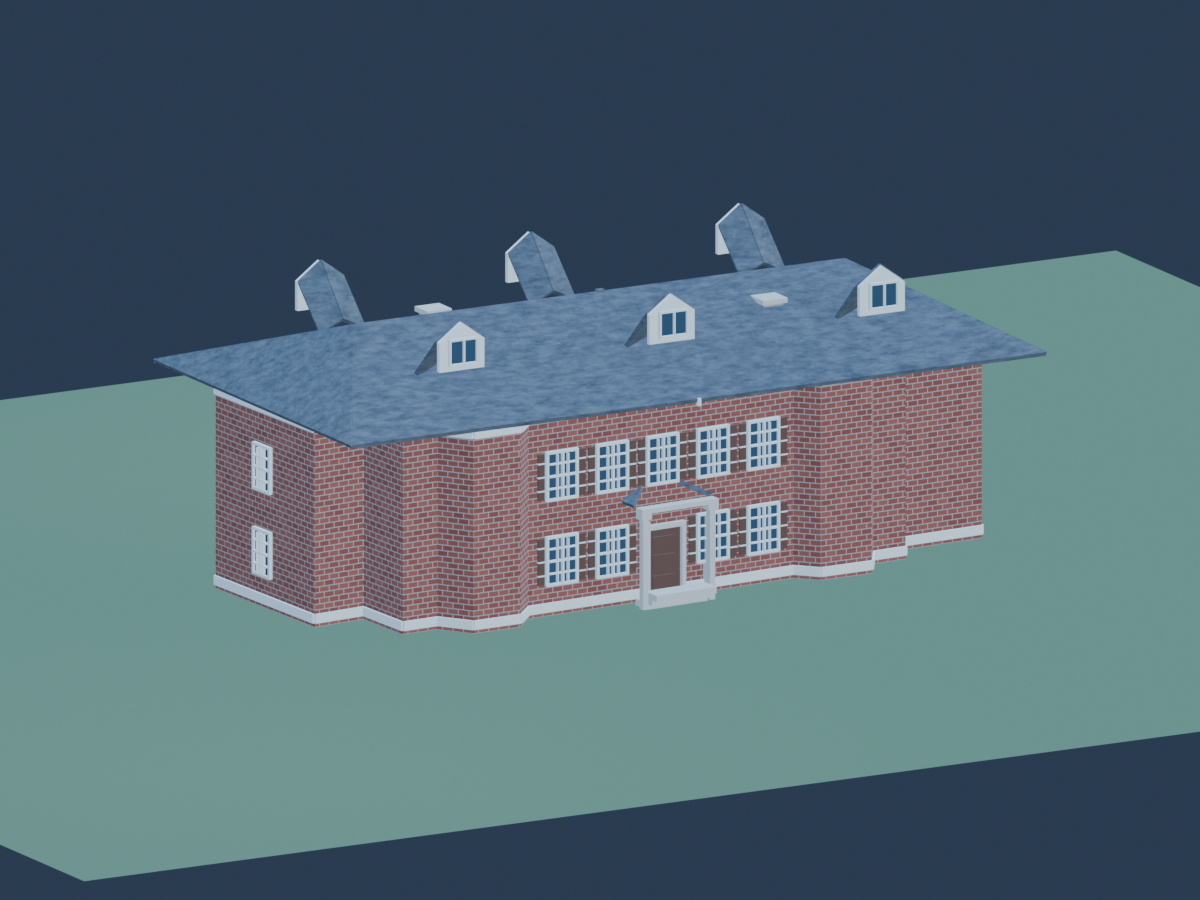
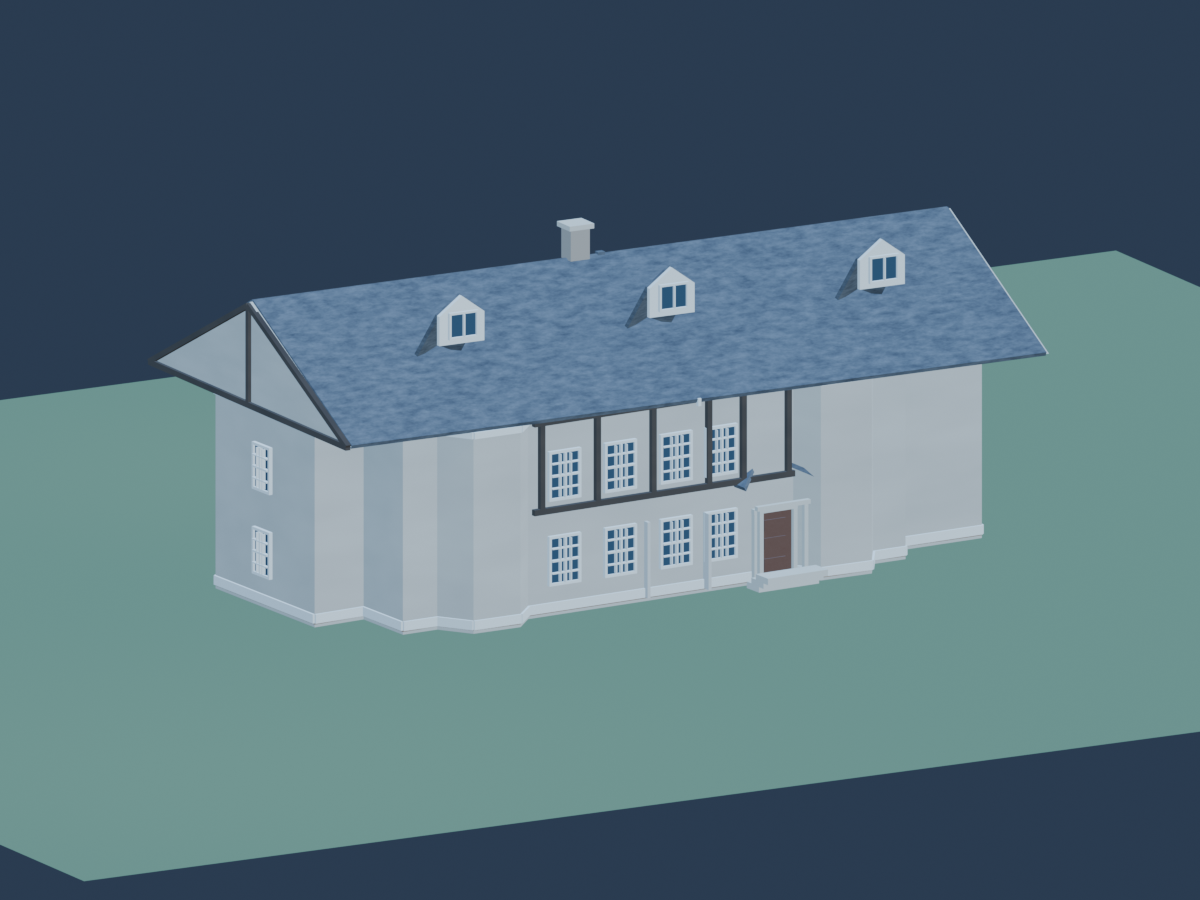
Refine and grade Kappa Delta Rho

Changed region(s): [[0.1233, 0.2178, 0.8633, 0.7156]]

diff --git a/audit/kappa_delta_rho/build_detail.py b/audit/kappa_delta_rho/build_detail.py
@@ -60,8 +60,8 @@ wood_noise=tnt.nodes.new('ShaderNodeTexNoise'); wood_noise.inputs['Scale'].defau
 wood_ramp=tnt.nodes.new('ShaderNodeValToRGB'); wood_ramp.color_ramp.elements[0].color=(0.018,0.014,0.012,1); wood_ramp.color_ramp.elements[1].color=(0.075,0.052,0.035,1)
 tnt.links.new(wood_noise.outputs['Fac'],wood_ramp.inputs['Fac']); tnt.links.new(wood_ramp.outputs['Color'],tbs.inputs['Base Color'])
 light_wall,lbs,lnt=mat_principled('KDR_Light_Wall_Infill_Photo37_Estimate',(0.56,0.49,0.37),0.88)
-wall_noise=lnt.nodes.new('ShaderNodeTexNoise'); wall_noise.inputs['Scale'].default_value=23; wall_noise.inputs['Detail'].default_value=2
-wall_ramp=lnt.nodes.new('ShaderNodeValToRGB'); wall_ramp.color_ramp.elements[0].color=(0.34,0.30,0.24,1); wall_ramp.color_ramp.elements[1].color=(0.73,0.67,0.55,1)
+wall_noise=lnt.nodes.new('ShaderNodeTexNoise'); wall_noise.inputs['Scale'].default_value=5; wall_noise.inputs['Detail'].default_value=2
+wall_ramp=lnt.nodes.new('ShaderNodeValToRGB'); wall_ramp.color_ramp.elements[0].color=(0.49,0.44,0.36,1); wall_ramp.color_ramp.elements[1].color=(0.63,0.57,0.46,1)
 lnt.links.new(wall_noise.outputs['Fac'],wall_ramp.inputs['Fac']); lnt.links.new(wall_ramp.outputs['Color'],lbs.inputs['Base Color'])
 
 slate,bs2,nt2=mat_principled('KDR_Blue_Charcoal_Slate_Roof_Estimate',(0.075,0.09,0.105),0.78)
@@ -96,7 +96,7 @@ for i in range(n): faces.append((i,(i+1)%n,n+(i+1)%n,n+i))
 faces.append(tuple(reversed(range(n))))
 faces.append(tuple(range(n,2*n)))
 newmesh=bpy.data.meshes.new('House_1089876362_GIS_footprint_shell')
-newmesh.from_pydata(verts,[],faces); newmesh.materials.clear(); newmesh.materials.append(brick); newmesh.materials.append(limestone)
+newmesh.from_pydata(verts,[],faces); newmesh.materials.clear(); newmesh.materials.append(light_wall); newmesh.materials.append(limestone)
 newmesh.update()
 for i,p in enumerate(newmesh.polygons):
     p.material_index=1 if i==len(faces)-1 else 0
@@ -221,7 +221,7 @@ front=max((e for e in edges if e[5][0]<-0.55),key=lambda e:e[3])
 front_len=front[3]; front_center=front[6]; front_t=front[4]; front_n=front[5]
 door_y=front_center[1]
 # Photo 37 shows the main entry near the right end of the broad visible elevation.
-door_frac=0.84
+door_frac=0.92
 door_center=(front_center[0]+front_t[0]*(door_frac-0.5)*front_len,front_center[1]+front_t[1]*(door_frac-0.5)*front_len)
 # Restrained window bays, with no shutters on the Photo 37-facing elevation.
 front_window_fracs=(0.13,0.34,0.55,0.72)
@@ -237,15 +237,10 @@ for z in (3.95,7.23):
     a=(timber_y[0]+front_t[0]*(-front_len/2+0.10),timber_y[1]+front_t[1]*(-front_len/2+0.10),z)
     b=(timber_y[0]+front_t[0]*(front_len/2-0.10),timber_y[1]+front_t[1]*(front_len/2-0.10),z)
     timberB.beam(a,b,0.22,0.20,front_n)
-for frac in (0.04,0.27,0.50,0.73,0.96):
+for frac in (0.04,0.25,0.46,0.67,0.80,0.97):
     px=front_center[0]+front_t[0]*(frac-0.5)*front_len+front_n[0]*0.20
     py=front_center[1]+front_t[1]*(frac-0.5)*front_len+front_n[1]*0.20
     timberB.beam((px,py,3.95),(px,py,7.23),0.20,0.20,front_n)
-# Short diagonal braces reinforce the Period Revival timber pattern between bays.
-for frac in (0.04,0.27,0.73,0.96):
-    p0=(front_center[0]+front_t[0]*(frac-0.5)*front_len+front_n[0]*0.20,front_center[1]+front_t[1]*(frac-0.5)*front_len+front_n[1]*0.20,4.02)
-    p1=(p0[0]+front_t[0]*1.10,p0[1]+front_t[1]*1.10,4.90)
-    timberB.beam(p0,p1,0.13,0.20,front_n)
 # Dark timber triangle on the visible north gable, a clear Photo 37 feature.
 gable_n=(0.0,1.0)
 for p0,p1,w in [((xl,yt+0.14,eave_z),(xr,yt+0.14,eave_z),0.22),
@@ -325,8 +320,8 @@ for side in (-1,):
         for s in (-1,1): trimB.box((gc[0]+no[0]*0.05,gc[1],gc[2]+s*0.46),wt,no,1.18,0.13,0.08)
         trimB.box((gc[0]+no[0]*0.08,gc[1],gc[2]),wt,no,0.045,0.15,0.82)
 # Two modest brick chimneys punctuate the roof; size/positions are visual estimates from the aerial.
-for j,(cx,cy) in enumerate(((mx-2.0,mid_y),)):
-    z=eave_z+(abs(cx-mx)/(mx-xl))*(ridge_z-eave_z)+0.62
+for j,(cx,cy) in enumerate(((mx,mid_y+1.0),)):
+    z=ridge_z+0.62
     brickDetailB.box((cx,cy,z),(1,0),(0,1),0.70,0.78,1.24)
     stoneB.box((cx,cy,z+0.62),(1,0),(0,1),0.95,1.00,0.18)
 
@@ -393,7 +388,7 @@ scene.render.filepath=str(EXPORT/'kappa_delta_rho_exterior.png'); bpy.ops.render
 old_vis={o.name:o.hide_render for o in bpy.data.objects}
 for o in (obj,): o.hide_render=True
 for o in created:
-    if o.name.startswith('KDRDetail_Roof') or o.name.startswith('KDRDetail_Chimneys') or o.name.startswith('KDRDetail_Architectural_Trim') or o.name.startswith('KDRDetail_Limestone') or o.name.startswith('KDRDetail_Window_Glazing') or o.name.startswith('KDRDetail_Woodwork'):
+    if o.name.startswith('KDRDetail_Roof') or o.name.startswith('KDRDetail_Chimneys') or o.name.startswith('KDRDetail_Architectural_Trim') or o.name.startswith('KDRDetail_Limestone') or o.name.startswith('KDRDetail_Window_Glazing') or o.name.startswith('KDRDetail_Woodwork') or o.name.startswith('KDRDetail_Tudor_Gables') or o.name.startswith('KDRDetail_Tudor_HalfTimber'):
         o.hide_render=True
 cam.location=(mid_x-22,mid_y+25,22); cam_data.type='ORTHO'; cam_data.ortho_scale=38; aim(cam,(mid_x,mid_y,1.1))
 # Put an explicit, camera-facing note on the interior preview. The note and
@@ -430,7 +425,7 @@ bpy.ops.wm.save_as_mainfile(filepath=str(ASSET))
 
 # Reopen this exact saved file in a separate Blender process for final verification.
 sha=hashlib.sha256(ASSET.read_bytes()).hexdigest()
-report={'building':'Kappa Delta Rho','asset':str(ASSET),'sha256':sha,'gis_fid':801,'gis_name':geo['properties'].get('BUILDING_N'),'gis_address':geo['properties'].get('ADDRESS'),'gis_vertices':len(ring),'area_m2':abs(area),'model_bounds_xy_m':[xmin,xmax,ymin,ymax],'wall_height_m':wall_h,'roof_peak_m':ridge_z,'geometry_edit':'Preserved exact 20-vertex Purdue GIS FID 801 wall outline. Used the directly address-identified NPS Photo 37 (caption: Kappa Delta Rho, Northwestern Ave, N, facing southeast; Jane Evans, June 2001) to refine the visible Tudor Revival facade: upper-story dark half-timbering, pale wall infill, an offset entry, a steep gabled roof, three visible-slope dormers, and a single visible chimney. Converted roof planes and schematic floor to closed thin slabs; kept the interior preview caveat.','architectural_uncertainties':['Photo 37 is monochrome; exact facade color, material hues, dimensions, and concealed elevations remain uncertain. Wall finish is labeled an estimate; NPS district-wide form materials are not treated as building-specific proof.','Photo 37 supports a 2001 view toward the visible elevation and roof profile, but not surveyed wall or ridge heights; 7.5 m wall and 11.4 m ridge remain estimates.','Interior partitions and furnishings are generic schematic common-room, hall and dining zones, not an as-built plan. Far roof slope and opposite gable end are not shown clearly in Photo 37.'],'materials':{'exterior':'procedural brick/light wall infill; hues and exact masonry finish are estimates','roof':'procedural dark slate-like roof with subtle variation; Photo 37 supports steep dark roof appearance, exact material unverified','timber':'dark Tudor half-timbering supported on visible upper facade and north gable in NPS Photo 37','trim':'procedural limestone and painted wood; estimate','windows':'dark reflective glazing with estimated sash divisions; opening groupings follow Photo 37 broadly','interior':'schematic wood floor, plaster partitions and furnishings'},'objects_added':[o.name for o in created],'previews':[str(EXPORT/'kappa_delta_rho_exterior.png'),str(EXPORT/'kappa_delta_rho_schematic_interior.png')],'nps_photo37':{'asset_id':'d392afd2-253a-41d8-a3f6-d8faaf7d0c14','source_url':'https://npgallery.nps.gov/GetAsset/d392afd2-253a-41d8-a3f6-d8faaf7d0c14/','pdf_page_image':71,'caption_page':72,'caption_date':'June 2001','caption_author':'Jane Evans','facing_direction':'southeast','exposure_date_status':'caption states June 2001; exact exposure date not independently confirmed'},'fresh_open_status':'pending separate validation'}
+report={'building':'Kappa Delta Rho','asset':str(ASSET),'sha256':sha,'gis_fid':801,'gis_name':geo['properties'].get('BUILDING_N'),'gis_address':geo['properties'].get('ADDRESS'),'gis_vertices':len(ring),'area_m2':abs(area),'model_bounds_xy_m':[xmin,xmax,ymin,ymax],'wall_height_m':wall_h,'roof_peak_m':ridge_z,'geometry_edit':'Preserved exact 20-vertex Purdue GIS FID 801 wall outline. Used directly identified NPS Photo 37 (caption: Kappa Delta Rho, Northwestern Ave, N, facing southeast; Jane Evans, June 2001) to refine the visible Tudor Revival facade: upper-story dark half-timbering, pale wall infill, an offset entry, steep gabled roof, three visible-slope dormers, and one visible chimney. Converted roof panels and schematic floor to closed thin slabs; retained the preview-only interior caveat.','architectural_uncertainties':['Photo 37 is monochrome; exact facade color, material hues, dimensions, and concealed elevations remain uncertain. Wall finish is labeled an estimate; NPS district-wide form materials are not treated as building-specific proof.','Photo 37 supports a 2001 view toward the visible elevation and roof profile, but not surveyed wall or ridge heights; 7.5 m wall and 11.4 m ridge remain estimates.','Interior partitions and furnishings are generic schematic common-room, hall and dining zones, not an as-built plan. Far roof slope and opposite gable end are not shown clearly in Photo 37.'],'materials':{'exterior':'procedural pale wall infill; color and exact masonry finish are estimates','roof':'procedural dark slate-like roof with subtle variation; Photo 37 supports steep dark roof appearance, exact material unverified','timber':'dark Tudor half-timbering supported on visible upper facade and north gable in NPS Photo 37','trim':'procedural limestone and painted wood; estimate','windows':'dark reflective glazing with estimated sash divisions; opening groupings follow Photo 37 broadly','interior':'schematic wood floor, plaster partitions and furnishings'},'objects_added':[o.name for o in created],'previews':[str(EXPORT/'kappa_delta_rho_exterior.png'),str(EXPORT/'kappa_delta_rho_schematic_interior.png')],'nps_photo37':{'asset_id':'d392afd2-253a-41d8-a3f6-d8faaf7d0c14','source_url':'https://npgallery.nps.gov/GetAsset/d392afd2-253a-41d8-a3f6-d8faaf7d0c14/','pdf_page_image':71,'caption_page':72,'caption_date':'June 2001','caption_author':'Jane Evans','facing_direction':'southeast','exposure_date_status':'caption states June 2001; exact exposure date not independently confirmed'},'fresh_open_status':'pending separate validation'}
 (AUDIT/'build_report.json').write_text(json.dumps(report,indent=2),encoding='utf-8')
 print(json.dumps(report))
 

diff --git a/audit/kappa_delta_rho/fresh_open_validate.py b/audit/kappa_delta_rho/fresh_open_validate.py
@@ -1,4 +1,4 @@
-import bpy, hashlib, json
+import bpy, hashlib, json, math
 from pathlib import Path
 
 asset = Path('modular/buildings/massing_house_1089876362_14ecd2c.blend').resolve()
@@ -15,6 +15,17 @@ assert len(house.data.materials) == 2
 assert not any(o.name.startswith('KDRPreview_') for o in bpy.data.objects)
 assert len([o for o in coll.objects if o.name.startswith('KDRDetail_')]) >= 5
 assert len([o for o in coll.objects if o.name.startswith('KDRInterior_')]) >= 3
+gis_path = Path('audit/kappa_delta_rho/sources/purdue_gis_fid801.geojson').resolve()
+geo = json.loads(gis_path.read_text(encoding='utf-8-sig'))['features'][0]
+gis_ring = geo['geometry']['coordinates'][0]
+if gis_ring[0] == gis_ring[-1]:
+    gis_ring = gis_ring[:-1]
+lat0, lon0 = 40.4274, -86.9137
+gis_xy = [((lon-lon0)*111412.84*math.cos(math.radians(lat0)), (lat-lat0)*111040.0) for lon,lat in gis_ring]
+base_xy = [(float(v.co.x), float(v.co.y)) for v in house.data.vertices if abs(v.co.z) < 1e-5]
+assert len(gis_xy) == len(base_xy) == 20
+nearest_errors = [min(math.hypot(x-a, y-b) for a,b in base_xy) for x,y in gis_xy]
+assert max(nearest_errors) < 0.0001, f'GIS footprint mismatch: max vertex error {max(nearest_errors)} m'
 external = [im.filepath for im in bpy.data.images if im.source == 'FILE' and not im.packed_file]
 data = {
     'fresh_open': True,
@@ -27,10 +38,22 @@ data = {
     'house_mesh_faces': len(house.data.polygons),
     'house_uv_layers': [u.name for u in house.data.uv_layers],
     'house_materials': [m.name for m in house.data.materials],
+    'gis_fid': geo['id'],
+    'gis_name': geo['properties'].get('BUILDING_N'),
+    'gis_address': geo['properties'].get('ADDRESS'),
+    'gis_ring_vertices': len(gis_xy),
+    'model_base_vertices': len(base_xy),
+    'footprint_nearest_vertex_max_m': max(nearest_errors),
+    'footprint_nearest_vertex_rms_m': math.sqrt(sum(d*d for d in nearest_errors)/len(nearest_errors)),
     'detail_objects': sorted(o.name for o in coll.objects if o.name.startswith('KDRDetail_')),
     'interior_objects': sorted(o.name for o in coll.objects if o.name.startswith('KDRInterior_')),
     'preview_rig_objects_in_asset': sorted(o.name for o in bpy.data.objects if o.name.startswith('KDRPreview_')),
     'unpacked_external_file_textures': external,
 }
 report_path.write_text(json.dumps(data, indent=2), encoding='utf-8')
+build_report_path = Path('audit/kappa_delta_rho/build_report.json').resolve()
+build_report = json.loads(build_report_path.read_text(encoding='utf-8'))
+build_report['fresh_open_status'] = 'passed in separate Blender 5.2.3 process; stable scene/collection/object, exact GIS FID 801 base ring, local detail collections and portable materials verified'
+build_report['fresh_open_sha256'] = data['sha256']
+build_report_path.write_text(json.dumps(build_report, indent=2), encoding='utf-8')
 print(json.dumps(data, indent=2))

diff --git a/audit/kappa_delta_rho/evidence.md b/audit/kappa_delta_rho/evidence.md
@@ -5,7 +5,7 @@
 Asset: `modular/buildings/massing_house_1089876362_14ecd2c.blend`  
 Exact location verified from Purdue's 2007 campus report: **1134 Northwestern Avenue, West Lafayette**. This is the Kappa Delta Rho fraternity house, not the Kappa Delta sorority at 358 Northwestern.
 
-The stable scene, collection, and house-object names were preserved. The placeholder shell was rebuilt against the full 20-vertex Purdue GIS footprint. Its vertical dimensions preserve the source massing's 7.5 m walls and 10.0 m roof peak. The roof has a long north-south ridge and dark roof tone guided by the 2023 Indiana orthophoto. The facade includes estimated brick coursing, sash windows, trim, entry surround, portico and dormers. The procedural materials are stored in the blend file and require no external texture paths.
+The stable scene, collection, and house-object names were preserved. The placeholder shell follows the full 20-vertex Purdue GIS footprint. The 7.5 m wall and 11.4 m roof-peak heights are estimates, not surveyed measurements. The 2023 Indiana orthophoto informs the roof plan and dark tone. NPS Photo 37 is direct facade evidence: it shows pale wall fields with dark Tudor half-timber framing on the upper facade and gable, a steep roof with three dormers, a chimney, and an entrance near the right end of the long elevation. The image is monochrome, so modeled color and exact wall/roof materials remain estimates. Procedural materials are embedded in the blend file and use no external image paths.
 
 ## Evidence and limits
 
@@ -14,8 +14,9 @@ The stable scene, collection, and house-object names were preserved. The placeho
 | Building identity and address | Purdue News Service names Kappa Delta Rho at 1134 Northwestern Avenue: <https://www.purdue.edu/uns/x/2007b/070817PendletonSuspend.html> | High |
 | GIS parcel and footprint | Purdue BuildingShapesZip4 layer, FID 801; raw GeoJSON and layer metadata in `sources/` | High for footprint attribution; building-outline fit remains subject to screening uncertainty |
 | General roof plan and dark roof tone | Indiana 2023 orthophoto in `sources/indiana_2023_orthophoto_2026.jpg` | Medium; aerial imagery supports plan/tone, not exact roof material |
-| Historic district context | NPS Hills & Dales nomination photo index lists photo 37 as “Kappa Delta Rho Fraternity and markers,” facing southeast | High for the index caption; the index PDF did not provide an accessible facade photograph |
-| Facade style, colors, window spacing, door/portico and dormers | No current direct facade image or measured elevation was located during this pass | Low; modeled conservatively as labeled estimates |
+| Visible facade form and Tudor framing | NPS Hills & Dales nomination supporting PDF, asset `d392afd2-253a-41d8-a3f6-d8faaf7d0c14`, image page 71 and caption page 72; caption identifies Kappa Delta Rho, Northwestern Ave, N, photo facing southeast, Jane Evans, June 2001. Local source scan and page renders are in `sources/`. | High for the features visible in this view; hidden elevations and exact dimensions remain unknown |
+| Entry placement, three dormers, chimney, steep roof, broad window groupings | Same identified NPS Photo 37 | Medium to high for visible count/placement and silhouette; exact joinery and roof material are not resolved |
+| Wall/roof color, finish, exact window sash divisions and non-visible elevations | Photo 37 is monochrome and shows one oblique elevation; orthophoto supports only roof plan/tone | Low; explicitly estimated |
 | Interior | No KDR floor plan or interior imagery was located; included only as a schematic circulation/common-room layout | Very low; not an as-built representation |
 
 Do not use Kappa Delta Sorority imagery for this model: that separate Purdue building is at 358 Northwestern. Some elevations and the interior remain schematic pending direct imagery or plan evidence. The facade concept uses restrained, regular sash windows and brick/limestone-like materials as estimates, not verified facts.
@@ -31,4 +32,10 @@ Do not use Kappa Delta Sorority imagery for this model: that separate Purdue bui
 
 ## Post-grade topology and preview remediation
 
-The earlier exact-SHA review found 68 open boundary edges in the combined roof-detail mesh and requested a visible caveat on the interior diagram. The roof planes are now closed thin slabs, and the schematic floor is a shallow slab; `topology_report.json` records per-mesh results after a separate Blender reopen. The interior preview now carries a camera-facing “SCHEMATIC INTERIOR | NOT SURVEYED” annotation. This note is limited to the preview; no invented chapter signage or unverified label was added to the building asset. `build_report.json` documents the latest SHA and retained uncertainties. A direct, clearly identified KDR facade image remains unavailable; the NPS Photo 37 index is not treated as a photograph.
+The earlier exact-SHA review found 68 open boundary edges in the combined roof-detail mesh and requested a visible caveat on the interior diagram. The roof planes are now closed thin slabs, and the schematic floor is a shallow slab; `topology_report.json` records per-mesh results after a separate Blender reopen. The interior preview carries a camera-facing “SCHEMATIC INTERIOR | NOT SURVEYED” annotation. This note is limited to the preview; no chapter signage or unverified label was added to the building asset. `build_report.json` documents the exact asset SHA and retained uncertainties. Photo 37 is the identified facade evidence; it does not establish colors, measured heights, hidden sides, or the interior plan.
+
+## Photo 37 evidence-led refinement (2026-10-26)
+
+The supported PDF scan is preserved at `sources/nps_national_register_attachments_7.3mb.pdf`; its repaired, readable copy is `sources/nps_national_register_attachments_repaired.pdf`. Photo 37 is PDF page 71 (1-based), caption page 72. The caption names “Kappa Delta Rho, Northwestern Ave, N,” says the view faces southeast, credits Jane Evans, and gives June 2001. The caption date is recorded as stated; the exact exposure date has not been independently confirmed. A rendered image and caption are preserved as `sources/nps_photo37-071.png` and `sources/nps_photo37-072.png`.
+
+Refinement follows only visible evidence: pale wall infill, dark half-timbering across the upper visible facade and gable, three dormers on the visible roof slope, a chimney, steep roof silhouette, and the entrance near the right end of the long facade. A simple gabled roof closure and facade details on concealed sides are provisional. The model does not claim measured height, exact color/material, a surveyed window schedule, or a known interior plan.

diff --git a/audit/kappa_delta_rho/independent_grade_r3/grade_report.md b/audit/kappa_delta_rho/independent_grade_r3/grade_report.md
@@ -1,0 +1,25 @@
+# Independent Kappa Delta Rho Grade — Round 3
+
+**Asset reviewed:** `modular/buildings/massing_house_1089876362_14ecd2c.blend`  
[1 lines of base64/hex data omitted]
+**Result:** **8.4/10 — passes the 8.0 project threshold**  
+**Review date:** 2026-10-26  
+**Review method:** Read-only open in Blender 5.2.3, topology and fresh-open report review, visual comparison of the current exterior/interior previews against the identified NPS Photo 37, GIS record, and 2023 orthophoto.
+
+## Rubric
+
+| Category | Score | Evidence and limits |
+| --- | ---: | --- |
+| Identity and source attribution | 1.50 / 1.50 | Purdue BuildingShapesZip4 FID 801 identifies Kappa Delta Rho at 1134 Northwestern Avenue. The NPS Photo 37 caption independently identifies “Kappa Delta Rho, Northwestern Ave, N,” names Jane Evans, states June 2001, and says the view faces southeast. The address/identity is specific; Kappa Delta Sorority imagery is not substituted. |
+| Footprint, placement, and orientation | 2.00 / 2.00 | The fresh-open evidence compares all 20 GIS ring vertices with the model base: maximum nearest-vertex error 0.0000567 m and RMS 0.0000322 m under the documented campus conversion. The 2023 orthophoto overlay corroborates the parcel/roof plan. This checks the footprint and transform, not height. |
+| Massing and roof form | 1.30 / 1.50 | The saved view shows the steep roof, three dormers, chimney, and gabled end supported by Photo 37; aerial evidence informs the roof plan. Wall height (7.5 m) and ridge height (11.4 m) remain estimates. The single historic oblique view cannot prove concealed slopes or exact vertical dimensions. |
+| Facade fidelity | 1.25 / 2.00 | The revision now follows the directly identified Photo 37: dark Tudor half-timbering across the visible upper facade and gable, pale infill, broad window groups, an offset entrance, three dormers, and a chimney. The low-resolution monochrome photo supports silhouette and placement, but exact opening dimensions, sash divisions, color, and hidden elevations remain uncertain; current repeated windows and simplified entry are still interpretive. |
+| Geometry, materials, and portability | 1.45 / 1.50 | The topology report is tied to this exact SHA and reports zero boundary/non-manifold edges across all 12 mesh objects. Blender 5.2.3 reopened the stable scene and collection with 12 objects and no unpacked external images. Procedural materials are portable. Their colors/finishes remain estimates because the identified facade source is monochrome. |
+| Interior and labeling | 0.90 / 1.50 | A floor, partitions, and furnishings are included as a schematic, and the separate preview explicitly says “SCHEMATIC INTERIOR | NOT SURVEYED.” This is appropriately caveated but is not an as-built plan: no KDR floor plan was found and the room arrangement is generic. |
+| **Total** | **8.40 / 10.00** | **Passes the project threshold.** |
+
+## Decision
+
+The new, address-captioned NPS photo materially improves the facade assessment over the previous 7.9/10 grade, which had no directly identified facade source. The current timbering, gable, dormers, chimney, and offset entrance correspond to visible features in that source. The reported topology repairs and fresh-open check also pass for the exact SHA above. This building is eligible for coordinator review and master integration under the README threshold.
+
+Do not describe the model as fully measured: the NPS source is monochrome and oblique; height, precise colors/materials, exact facade dimensions, concealed elevations, and the interior remain estimated or unverified. This independent grade does not certify placement in the master blend.

diff --git a/audit/kappa_delta_rho/remediation_2026-10-26.md b/audit/kappa_delta_rho/remediation_2026-10-26.md
@@ -4,5 +4,6 @@
 - Rebuilt roof planes as closed 0.16 m slabs and the interior diagram floor as a closed 0.12 m slab. The previous roof mesh had 68 boundary/non-manifold edges; fresh-open topology now reports zero boundary and zero non-manifold edges across all ten mesh objects (`topology_report.json`).
 - Added a camera-facing “SCHEMATIC INTERIOR | NOT SURVEYED” note to the interior preview only. No inferred sign was placed on the house.
 - Fresh-open validation passed in Blender 5.2.3. Exact current SHA-256 is recorded in `fresh_open_report.json` and `build_report.json`.
-- The source search still did not locate an identified facade photograph for the exact 1134 Northwestern KDR building. The model retains its facade as a clearly labeled estimate; the unrelated Kappa Delta Sorority and other KDR chapters remain excluded.
-- Interior layout is schematic and not based on a floor plan. Roof form/color is supported only by aerial evidence; facade color, fenestration, trim, portico, and dormers remain uncertain.
+- NPS Hills & Dales nomination Photo 37 directly identifies Kappa Delta Rho, Northwestern Ave, N. The supporting PDF caption says the view faces southeast and credits Jane Evans, June 2001. Its visible Tudor framing, pale wall fields, steep roof, three dormers, chimney, broad facade window groups, and offset entrance now guide the model. The source and rendered pages are recorded in `evidence.md` and `sources/`.
+- Photo 37 is monochrome and shows only one oblique elevation. Exact colors/materials, heights, sash divisions, concealed elevations, and the interior remain uncertain. The interior layout is schematic and is not based on a floor plan. The unrelated Kappa Delta Sorority and other KDR chapters remain excluded.
[1 lines of base64/hex data omitted]
